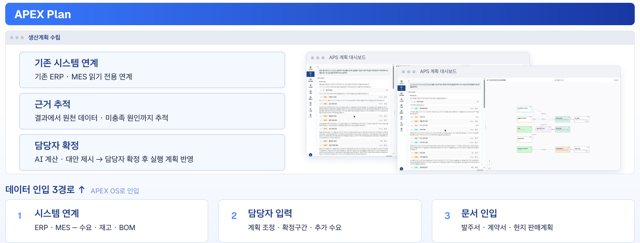
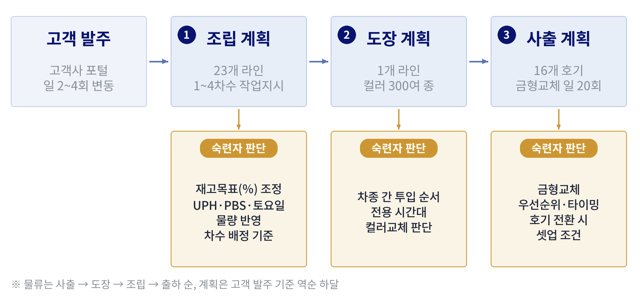
Site update

diff --git a/tools/en_content.py b/tools/en_content.py
@@ -60,6 +60,21 @@ CAPTION = {
     "투입 → 컨베이어 → AI 검사 구성": "Infeed → conveyor → AI inspection layout",
     "후공정 검사 카메라 마운트": "Camera mount for post-process inspection",
     "휴대용 레이저 각인기": "Portable laser engraver",
+    "Ontology · LLM Agent · MES Integration": "Ontology · LLM Agent · MES Integration",
+    "Energy Monitoring · KEPCO OpenAPI · Demand Forecast": "Energy Monitoring · KEPCO OpenAPI · Demand Forecast",
+    "자동차 커넥터·전장부품 제조사": "Automotive connector and electrical parts maker",
+    "구축 착수": "Build started",
+    "금형 타발 알림(화면 예시)": "Mold shot-count alerts (sample screen)",
+    "팀별 KPI 대시보드(화면 예시)": "Team KPI dashboard (sample screen)",
+    "근거를 보여주는 AI 질의응답(화면 예시)": "AI Q&A with traceable evidence (sample screen)",
+    "실시간 가동·비가동 모니터링(화면 예시)": "Live run/idle monitoring (sample screen)",
+    "이론재고를 계산하는 노드 그래프": "Theoretical-inventory logic as a node graph",
+    "숙련자 판단을 쌓는 APEX OS 구성": "How APEX OS builds up expert judgment",
+    "발주에서 사출까지, 공정별 숙련자 판단": "Where expert judgment shapes each stage of the plan",
+    "설비 심볼 8종": "Eight equipment symbols",
+    "한전 사용량·요금 화면": "KEPCO usage and tariff view",
+    "유효·비효율 사용량 리포트": "Effective vs. wasted usage report",
+    "도면 위 설비별 에너지 모니터링": "Energy per machine on the floor plan",
     "라인에 설치한 포장 수량 검사장치": "Pack count inspection unit installed on the line",
     "포장 내 스프링 수량 AI 집계 화면": "AI count of springs in a pack",
     "APEX Plan 생산계획 수립 구조": "APEX Plan production planning structure",
@@ -111,15 +126,35 @@ Reading work orders, demand, capacity and inventory together, it totals volume b
 """),
     "apex-m-assembly-planning": (
         "Company S (Sequence-driven assembly planning automation)",
-        "Moves assembly planning that ran on Excel workbooks and messenger chats onto the ontology, linking sequence intake to work orders in one flow",
+        "Moves assembly planning that one planner ran in Excel onto the ontology and builds up expert decisions as history for recommendations",
         """
-Company S's assembly planning runs on one planner's Excel workbook. Every morning the planner downloads delivery sequences by plant from the automaker's portal, copies defect reports received by messenger into the sheet by hand, calculates theoretical inventory, finds the specs that will run short, and prints work orders. Scaling quantities by a single ratio, assigning shifts, splitting into cart-sized lots and preparing the SAP sequence-production upload are all stitched together by hand.
+Company S makes automotive mirrors through injection molding, painting and assembly. The automaker's plan changes two to four times a day, and one planner spent three to four hours building each assembly plan in an Excel workbook. Decisions such as how to split work into shifts relied on experienced staff, model by model.
 
-JISHIN is unpacking the workbook's formulas and labels one by one, confirming what they mean in interviews with the planner, and moving those rules into APEX OS ontology objects and constraints. Six MES views (production results, run history, line status, two inventory views and issue history) are connected so theoretical inventory reconciles automatically; the first scope runs up to entering D+3 production quantities and comparing the result with the existing plan. A simulator screen the planner can run directly is being built alongside.
+### Workshop and kickoff
+A three-day on-site workshop in August 2026 produced 28 requirements, and assembly planning automation was chosen as the first project. After the September kickoff, interviews with the planner broke the job into seven data-preparation steps and five planning steps.
+
+### What we are building
+Theoretical inventory is confirmed from customer sequences (previous stock + previous plan − actuals − unproduced), short specs are flagged, and the system generates shift-by-shift work orders and the SAP upload file. MES, SAP, paint-shop SCADA, customer sequences and Excel planning files are tied together in the APEX OS ontology, and the decisions experts make — with their reasons — are kept as history to inform the next plan. The planner sees the evidence for each step beside the result, compares it with their own estimate, and then confirms.
 
 ### Progress
-- Three on-site interviews in September 2026 and a confirmed rule sheet for the workbook
-- Planning for painting and injection lines to follow the assembly line
+Checked against the existing workbook, theoretical inventory matched 52 of 52, remaining and shortage 312 of 312, and same-day plan decisions 416 of 416. After a first demo, it will run in Shadow Mode alongside the current method before going into production.
+"""),
+    "apex-k-mes-agent": (
+        "Company K (MES-connected AI Q&A and run/idle monitoring)",
+        "Cleans MES data into an ontology and builds run/idle monitoring, AI Q&A that shows its evidence, and automated reporting",
+        """
+Company K runs stamping, injection, plating and assembly. Each team downloaded MES data into Excel to build PowerPoint reports, taking around three hours per regular report. Utilization was only totaled per day, so day and night shifts couldn't be separated, and planned stops mixed with real downtime made utilization look lower than it was. There was no alert when a mold's shot count passed its limit.
+
+### What we are building
+Plant MES data is moved into a cleaned database for AI and tied into the APEX OS ontology, so screens, reports and Q&A all read the same data. It is installed on premises.
+
+- Live run/idle, labor-hour and materials/warehouse monitoring
+- AI Q&A that answers with the evidence: which data was queried and how
+- Team KPI dashboards and automatic weekly and monthly reports
+- Mold shot-count alerts and draft repair requests
+
+### Progress
+After a pilot kickoff in August 2026 and a contract in October, the build covers three plants through February 2027.
 """),
     "si-drying-temp-ai": (
         "Company S (AI temperature recommendation and anomaly alerts for a molded pulp drying line)",
@@ -177,11 +212,18 @@ We are building an integrated monitoring system that cross-checks against work o
 """),
     "si-fems": (
         "Company E (Real-time factory energy management (FEMS) linked to KEPCO tariffs)",
-        "See live power and wasted usage per machine on the floor plan, with KEPCO costs and carbon intensity on one screen",
+        "Energy per machine on the floor plan, KEPCO tariff data and demand forecasting in one system",
         """
-We built a factory energy management system (FEMS) together with an MES for a plant that makes powder and coating materials. The customer handled the data collection hardware and database; JISHIN built the screens, back end and AI.
+We built a factory energy management system (FEMS) together with an MES for a plant with powder (bead mill) and coating (plasma) processes. The customer handled the data collection hardware and database; JISHIN built the screens, back end and AI.
 
-On the equipment layout, operators see live power (kW) per machine and check effective versus wasted usage by hour along with alarm logs. Through the KEPCO PowerPlanner API, monthly converted cost and usage are compared with the previous month and the same month last year. Carbon emission intensity and reports by machine and for the whole plant are included.
+### Energy per machine on the floor plan
+Upload the plant drawing, drag machines onto it, and each one shows live power (kW) and effective versus wasted usage right where it sits. Positions are stored relative to the drawing, so they stay put at any screen size. Seven screens cover machine monitoring, alarm logs (monthly top 3 and statistics), per-machine and plant-wide reports, KEPCO usage, carbon intensity and energy demand forecasting.
+
+### KEPCO data integration
+We connected contract, monthly billing and 15-minute metering data from the KEPCO PowerPlanner OpenAPI. The server collects 15-minute readings automatically and uses them for live usage, expected cost and carbon intensity. On the forecasting screen, users can change contract power and unit price to see how the bill would change.
+
+### Progress
+All six findings from the August 2026 review were resolved and reported complete, and the system is running on site.
 """),
     "si-curved-spring": (
         "Company D (Curvature-aware photometric AI vision with automatic rejection)",

diff --git a/tools/make_teasers.py b/tools/make_teasers.py
@@ -14,7 +14,7 @@ PICK = {
     "si-curved-spring": (1, "fit"),
     "si-cutting-tool-ai": (1, "photo"),
     "si-drying-temp-ai": (4, "fit"),
-    "si-fems": (2, "fit"),
+    "si-fems": (1, "fit"),
     "si-grind-inspection-darkroom": (1, "photo"),
     "si-grinder-ai": (2, "photo"),
     "si-load-control": (1, "fit"),
@@ -25,7 +25,8 @@ PICK = {
     "si-spring-inspection": (1, "photo"),
     "si-stpm": (1, "fit"),
     "si-spring-packaging": (1, "photo"),
-    "apex-m-assembly-planning": (1, "fit"),
+    "apex-m-assembly-planning": (2, "fit"),
+    "apex-k-mes-agent": (1, "fit"),
 }
 
 

diff --git a/_portfolio/apex-m-assembly-planning.md b/_portfolio/apex-m-assembly-planning.md
@@ -5,7 +5,7 @@ types: ["Ontology"]
 solution: onto
 kind: apex-os
 order: 2
-excerpt: "엑셀 워크북과 메신저로 돌던 조립 생산계획을 온톨로지 위로 옮겨 서열 수집부터 작업지시까지 한 흐름으로 잇습니다"
+excerpt: "담당자 한 사람의 엑셀로 짜던 조립 생산계획을 온톨로지로 옮기고, 숙련자 판단을 이력으로 쌓아 추천에 씁니다"
 sidebar:
   - title: "고객"
     text: "자동차 미러 부품 제조사"
@@ -20,16 +20,27 @@ header:
 gallery:
   - url: /assets/images/portfolio/apex-m-assembly-planning/01.jpg
     image_path: /assets/images/portfolio/apex-m-assembly-planning/01-th.jpg
-    alt: "APEX Plan 생산계획 수립 구조"
-    title: "APEX Plan 생산계획 수립 구조"
+    alt: "발주에서 사출까지, 공정별 숙련자 판단"
+    title: "발주에서 사출까지, 공정별 숙련자 판단"
+  - url: /assets/images/portfolio/apex-m-assembly-planning/02.jpg
+    image_path: /assets/images/portfolio/apex-m-assembly-planning/02-th.jpg
+    alt: "숙련자 판단을 쌓는 APEX OS 구성"
+    title: "숙련자 판단을 쌓는 APEX OS 구성"
+  - url: /assets/images/portfolio/apex-m-assembly-planning/03.jpg
+    image_path: /assets/images/portfolio/apex-m-assembly-planning/03-th.jpg
+    alt: "이론재고를 계산하는 노드 그래프"
+    title: "이론재고를 계산하는 노드 그래프"
 ---
 
-S사의 조립 생산계획은 담당자 한 사람의 엑셀 워크북으로 돌아갑니다. 매일 아침 완성차 고객사 포털에서 서열을 공장별로 내려받고 메신저로 통보된 불량을 손으로 옮겨 적은 뒤, 이론재고를 계산하고 부족한 사양을 찾아 작업지시서를 뽑습니다. 사양별 수량을 비율 하나로 끌어올리는 일부터 차수 배정, 대차 단위 분할, SAP 순서생산 업로드까지 사람이 직접 이어 붙입니다.
+S사는 사출·도장·조립을 거쳐 자동차 미러를 만듭니다. 완성차 고객사의 계획이 하루 2~4번 바뀌는데, 조립 생산계획은 담당자 한 사람이 엑셀 워크북으로 3~4시간씩 짜 왔습니다. 차수를 어떻게 나눌지 같은 판단은 차종마다 숙련자의 경험에 기대고 있었습니다.
 
-지신은 이 워크북의 수식과 라벨을 하나씩 풀어 담당자 인터뷰로 의미를 확정하고, 그 규칙을 APEX OS 온톨로지의 객체와 제약으로 옮기고 있습니다. MES 뷰 6종(생산실적·가동 이력·라인 상태·재고 2종·출고 이력)을 연결해 이론재고를 자동으로 맞춥니다. 1차 범위는 D+3 양산 수량을 입력해 결과를 기존 계획과 비교하는 데까지입니다. 계획 담당자가 직접 돌려 볼 수 있는 시뮬레이터 화면도 함께 만들고 있습니다.
+### 워크숍과 착수
+2026년 8월 3일간 현장 워크숍에서 요구사항 28건을 도출했고, 그중 조립 생산계획 자동화를 첫 과제로 정했습니다. 9월 킥오프 뒤 계획 담당자 인터뷰로 업무를 자료 준비 7단계와 계획 작성 5단계로 정리했습니다.
+
+### 만드는 것
+고객 서열을 기준으로 이론재고를 확정하고(전일재고 + 전일계획 − 실적 − 미생산), 부족 사양을 판정해 차수별 작업지시와 SAP 업로드 파일까지 만듭니다. MES·SAP·도장 SCADA·고객 서열·엑셀 계획 파일을 APEX OS 온톨로지로 묶고, 숙련자가 내린 판단과 그 이유를 이력으로 쌓아 다음 계획 추천에 씁니다. 계획 담당자는 결과 옆에서 단계별 근거를 보고 자기 예상치와 나란히 비교한 뒤 확정합니다.
 
 ### 진행
-- 2026년 9월 온사이트 인터뷰 3회, 워크북 규칙 확인표 작성
-- 조립 라인 다음으로 도장·사출 라인 계획까지 넓힐 예정
+기존 워크북 결과와 대조해 보니 이론재고 52/52건, 잔여·부족 312/312건, 당일계획 판정 416/416건이 일치했습니다. 1차 데모를 거쳐 기존 방식과 병행하는 Shadow Mode로 검증한 뒤 양산에 적용할 예정입니다.
 
 {% include gallery %}

diff --git a/_portfolio_en/apex-m-assembly-planning.md b/_portfolio_en/apex-m-assembly-planning.md
@@ -5,7 +5,7 @@ types: ["Ontology"]
 solution: onto
 kind: apex-os
 order: 2
-excerpt: "Moves assembly planning that ran on Excel workbooks and messenger chats onto the ontology, linking sequence intake to work orders in one flow"
+excerpt: "Moves assembly planning that one planner ran in Excel onto the ontology and builds up expert decisions as history for recommendations"
 sidebar:
   - title: "Client"
     text: "Automotive mirror parts maker"
@@ -20,16 +20,27 @@ header:
 gallery:
   - url: /assets/images/portfolio/apex-m-assembly-planning/01.jpg
     image_path: /assets/images/portfolio/apex-m-assembly-planning/01-th.jpg
-    alt: "APEX Plan production planning structure"
-    title: "APEX Plan production planning structure"
+    alt: "Where expert judgment shapes each stage of the plan"
+    title: "Where expert judgment shapes each stage of the plan"
+  - url: /assets/images/portfolio/apex-m-assembly-planning/02.jpg
+    image_path: /assets/images/portfolio/apex-m-assembly-planning/02-th.jpg
+    alt: "How APEX OS builds up expert judgment"
+    title: "How APEX OS builds up expert judgment"
+  - url: /assets/images/portfolio/apex-m-assembly-planning/03.jpg
+    image_path: /assets/images/portfolio/apex-m-assembly-planning/03-th.jpg
+    alt: "Theoretical-inventory logic as a node graph"
+    title: "Theoretical-inventory logic as a node graph"
 ---
 
-Company S's assembly planning runs on one planner's Excel workbook. Every morning the planner downloads delivery sequences by plant from the automaker's portal, copies defect reports received by messenger into the sheet by hand, calculates theoretical inventory, finds the specs that will run short, and prints work orders. Scaling quantities by a single ratio, assigning shifts, splitting into cart-sized lots and preparing the SAP sequence-production upload are all stitched together by hand.
+Company S makes automotive mirrors through injection molding, painting and assembly. The automaker's plan changes two to four times a day, and one planner spent three to four hours building each assembly plan in an Excel workbook. Decisions such as how to split work into shifts relied on experienced staff, model by model.
 
-JISHIN is unpacking the workbook's formulas and labels one by one, confirming what they mean in interviews with the planner, and moving those rules into APEX OS ontology objects and constraints. Six MES views (production results, run history, line status, two inventory views and issue history) are connected so theoretical inventory reconciles automatically; the first scope runs up to entering D+3 production quantities and comparing the result with the existing plan. A simulator screen the planner can run directly is being built alongside.
+### Workshop and kickoff
+A three-day on-site workshop in August 2026 produced 28 requirements, and assembly planning automation was chosen as the first project. After the September kickoff, interviews with the planner broke the job into seven data-preparation steps and five planning steps.
+
+### What we are building
+Theoretical inventory is confirmed from customer sequences (previous stock + previous plan − actuals − unproduced), short specs are flagged, and the system generates shift-by-shift work orders and the SAP upload file. MES, SAP, paint-shop SCADA, customer sequences and Excel planning files are tied together in the APEX OS ontology, and the decisions experts make — with their reasons — are kept as history to inform the next plan. The planner sees the evidence for each step beside the result, compares it with their own estimate, and then confirms.
 
 ### Progress
-- Three on-site interviews in September 2026 and a confirmed rule sheet for the workbook
-- Planning for painting and injection lines to follow the assembly line
+Checked against the existing workbook, theoretical inventory matched 52 of 52, remaining and shortage 312 of 312, and same-day plan decisions 416 of 416. After a first demo, it will run in Shadow Mode alongside the current method before going into production.
 
 {% include gallery %}

diff --git a/_portfolio_en/si-fems.md b/_portfolio_en/si-fems.md
@@ -5,12 +5,12 @@ types: ["Software"]
 solution: sw
 kind: si
 order: 4
-excerpt: "See live power and wasted usage per machine on the floor plan, with KEPCO costs and carbon intensity on one screen"
+excerpt: "Energy per machine on the floor plan, KEPCO tariff data and demand forecasting in one system"
 sidebar:
   - title: "Client"
     text: "Powder & coating materials maker"
   - title: "Techniques"
-    text: "Energy Monitoring · KEPCO API"
+    text: "Energy Monitoring · KEPCO OpenAPI · Demand Forecast"
   - title: "Program"
     text: "Legend 50+ Regional Smart Factory Program"
   - title: "Period"
@@ -22,16 +22,31 @@ header:
 gallery:
   - url: /assets/images/portfolio/si-fems/01.jpg
     image_path: /assets/images/portfolio/si-fems/01-th.jpg
-    alt: "Energy management screen"
-    title: "Energy management screen"
+    alt: "Energy per machine on the floor plan"
+    title: "Energy per machine on the floor plan"
   - url: /assets/images/portfolio/si-fems/02.jpg
     image_path: /assets/images/portfolio/si-fems/02-th.jpg
-    alt: "Usage and cost overview"
-    title: "Usage and cost overview"
+    alt: "Effective vs. wasted usage report"
+    title: "Effective vs. wasted usage report"
+  - url: /assets/images/portfolio/si-fems/03.jpg
+    image_path: /assets/images/portfolio/si-fems/03-th.jpg
+    alt: "KEPCO usage and tariff view"
+    title: "KEPCO usage and tariff view"
+  - url: /assets/images/portfolio/si-fems/04.jpg
+    image_path: /assets/images/portfolio/si-fems/04-th.jpg
+    alt: "Eight equipment symbols"
+    title: "Eight equipment symbols"
 ---
 
-We built a factory energy management system (FEMS) together with an MES for a plant that makes powder and coating materials. The customer handled the data collection hardware and database; JISHIN built the screens, back end and AI.
+We built a factory energy management system (FEMS) together with an MES for a plant with powder (bead mill) and coating (plasma) processes. The customer handled the data collection hardware and database; JISHIN built the screens, back end and AI.
 
-On the equipment layout, operators see live power (kW) per machine and check effective versus wasted usage by hour along with alarm logs. Through the KEPCO PowerPlanner API, monthly converted cost and usage are compared with the previous month and the same month last year. Carbon emission intensity and reports by machine and for the whole plant are included.
+### Energy per machine on the floor plan
+Upload the plant drawing, drag machines onto it, and each one shows live power (kW) and effective versus wasted usage right where it sits. Positions are stored relative to the drawing, so they stay put at any screen size. Seven screens cover machine monitoring, alarm logs (monthly top 3 and statistics), per-machine and plant-wide reports, KEPCO usage, carbon intensity and energy demand forecasting.
+
+### KEPCO data integration
+We connected contract, monthly billing and 15-minute metering data from the KEPCO PowerPlanner OpenAPI. The server collects 15-minute readings automatically and uses them for live usage, expected cost and carbon intensity. On the forecasting screen, users can change contract power and unit price to see how the bill would change.
+
+### Progress
+All six findings from the August 2026 review were resolved and reported complete, and the system is running on site.
 
 {% include gallery %}

diff --git a/_portfolio/si-fems.md b/_portfolio/si-fems.md
@@ -10,7 +10,7 @@ sidebar:
   - title: "고객"
     text: "분말·코팅 소재 제조사"
   - title: "기술"
-    text: "Energy Monitoring · KEPCO API"
+    text: "Energy Monitoring · KEPCO OpenAPI · Demand Forecast"
   - title: "사업"
     text: "레전드50+ 지역특화 스마트공장 구축사업"
   - title: "기간"
@@ -22,16 +22,31 @@ header:
 gallery:
   - url: /assets/images/portfolio/si-fems/01.jpg
     image_path: /assets/images/portfolio/si-fems/01-th.jpg
-    alt: "에너지 관리 화면"
-    title: "에너지 관리 화면"
+    alt: "도면 위 설비별 에너지 모니터링"
+    title: "도면 위 설비별 에너지 모니터링"
   - url: /assets/images/portfolio/si-fems/02.jpg
     image_path: /assets/images/portfolio/si-fems/02-th.jpg
-    alt: "사용량·요금 현황"
-    title: "사용량·요금 현황"
+    alt: "유효·비효율 사용량 리포트"
+    title: "유효·비효율 사용량 리포트"
+  - url: /assets/images/portfolio/si-fems/03.jpg
+    image_path: /assets/images/portfolio/si-fems/03-th.jpg
+    alt: "한전 사용량·요금 화면"
+    title: "한전 사용량·요금 화면"
+  - url: /assets/images/portfolio/si-fems/04.jpg
+    image_path: /assets/images/portfolio/si-fems/04-th.jpg
+    alt: "설비 심볼 8종"
+    title: "설비 심볼 8종"
 ---
 
-분말·코팅 소재를 만드는 공장에 MES와 함께 에너지 관리 시스템(FEMS)을 구축했습니다. 데이터 수집 장비와 DB는 고객사가 맡고 화면과 백엔드, AI는 지신이 만들었습니다.
+분말 공정(비드밀)과 코팅 공정(플라즈마)을 가진 공장에 MES와 함께 에너지 관리 시스템(FEMS)을 구축했습니다. 데이터 수집 장비와 DB는 고객사가 맡고 화면과 백엔드, AI는 지신이 만들었습니다.
 
-설비 배치도 위에서 설비별 실시간 전력(kW)을 보고 시간대별 유효·비효율 사용량과 알람 로그를 확인합니다. 한전 파워플래너 API를 연동해 월별 환산 요금과 사용량을 전월·전년 동월과 비교합니다. 탄소배출 집약도와 설비별·전체 리포트도 제공합니다.
+### 도면 위에서 보는 설비별 에너지
+공장 도면을 배경으로 올리고 설비를 끌어다 놓으면 설비마다 실시간 전력(kW)과 유효·비효율 사용량이 그 자리에 표시됩니다. 좌표를 도면 대비 비율로 저장해 화면 크기가 달라도 위치가 어긋나지 않습니다. 설비 모니터링, 알람 로그(월별 Top3·발생 통계), 설비별·전체 리포트, 한전 사용량 보기, 탄소배출 집약도, 에너지 수요 예측까지 7개 화면으로 구성했습니다.
+
+### 한전 데이터 연동
+한전 파워플래너 OpenAPI의 계약자 정보·월별 청구·15분 계량 데이터를 연결했습니다. 15분 계량값은 서버가 자동으로 모아 실시간 사용량과 예상 요금, 탄소 집약도 계산에 씁니다. 수요 예측 화면에서는 계약전력과 단가를 바꿔 요금이 어떻게 달라지는지 미리 계산해 볼 수 있습니다.
+
+### 진행
+2026년 8월 점검에서 나온 지적사항 6건을 모두 조치해 완료 보고를 마쳤고 현장에서 운영하고 있습니다.
 
 {% include gallery %}

diff --git a/_portfolio/apex-k-mes-agent.md b/_portfolio/apex-k-mes-agent.md
@@ -1,0 +1,52 @@
+---
+title: "K사 (MES 데이터 연동 AI 질의응답·가동/비가동 모니터링)"
+status: ongoing
+types: ["Ontology", "LLM · Agent"]
+solution: onto
+kind: apex-os
+order: 3
+excerpt: "MES 데이터를 정제해 온톨로지로 묶고, 가동·비가동 모니터링과 근거를 보여주는 AI 질의응답, 리포트 자동화를 만듭니다"
+sidebar:
+  - title: "고객"
+    text: "자동차 커넥터·전장부품 제조사"
+  - title: "기술"
+    text: "Ontology · LLM Agent · MES Integration"
+  - title: "기간"
+    text: "2026.10 ~ 2027.02"
+  - title: "상태"
+    text: "구축 착수"
+header:
+  teaser: /assets/images/portfolio/apex-k-mes-agent/teaser.jpg
+gallery:
+  - url: /assets/images/portfolio/apex-k-mes-agent/01.jpg
+    image_path: /assets/images/portfolio/apex-k-mes-agent/01-th.jpg
+    alt: "실시간 가동·비가동 모니터링(화면 예시)"
+    title: "실시간 가동·비가동 모니터링(화면 예시)"
+  - url: /assets/images/portfolio/apex-k-mes-agent/02.jpg
+    image_path: /assets/images/portfolio/apex-k-mes-agent/02-th.jpg
+    alt: "근거를 보여주는 AI 질의응답(화면 예시)"
+    title: "근거를 보여주는 AI 질의응답(화면 예시)"
+  - url: /assets/images/portfolio/apex-k-mes-agent/03.jpg
+    image_path: /assets/images/portfolio/apex-k-mes-agent/03-th.jpg
+    alt: "팀별 KPI 대시보드(화면 예시)"
+    title: "팀별 KPI 대시보드(화면 예시)"
+  - url: /assets/images/portfolio/apex-k-mes-agent/04.jpg
+    image_path: /assets/images/portfolio/apex-k-mes-agent/04-th.jpg
+    alt: "금형 타발 알림(화면 예시)"
+    title: "금형 타발 알림(화면 예시)"
+---
+
+K사는 프레스·사출·도금·조립 공정을 운영합니다. 팀마다 MES 데이터를 엑셀로 내려받아 PPT 보고서를 만드는 데 정기 보고 한 건에 3시간 안팎이 들었습니다. 가동률은 하루 단위로만 집계돼 주간·야간을 나눠 볼 수 없었고 계획된 정지와 실제 비가동이 섞여 가동률이 실제보다 낮게 보였습니다. 금형 타발 수가 기준을 넘어도 알림이 없었습니다.
+
+### 만드는 것
+공장 MES 데이터를 AI 전용 정제 DB로 옮기고 APEX OS 온톨로지로 묶어 화면·리포트·질의응답이 모두 같은 데이터를 보게 합니다. 사내 구축형으로 설치합니다.
+
+- 실시간 가동·비가동, 노무공수, 자재·창고 모니터링
+- 질문하면 어떤 데이터를 어떻게 조회했는지 근거와 함께 답하는 AI 질의응답
+- 팀별 KPI 대시보드와 주간·월간 리포트 자동 생성
+- 금형 타발 도달 알림과 수리 의뢰 초안
+
+### 진행
+2026년 8월 파일럿 킥오프를 거쳐 10월 계약을 맺고, 2027년 2월까지 공장 3곳을 대상으로 구축합니다.
+
+{% include gallery %}

diff --git a/_portfolio_en/apex-k-mes-agent.md b/_portfolio_en/apex-k-mes-agent.md
@@ -1,0 +1,52 @@
+---
+title: "Company K (MES-connected AI Q&A and run/idle monitoring)"
+status: ongoing
+types: ["Ontology", "LLM · Agent"]
+solution: onto
+kind: apex-os
+order: 3
+excerpt: "Cleans MES data into an ontology and builds run/idle monitoring, AI Q&A that shows its evidence, and automated reporting"
+sidebar:
+  - title: "Client"
+    text: "Automotive connector and electrical parts maker"
+  - title: "Techniques"
+    text: "Ontology · LLM Agent · MES Integration"
+  - title: "Period"
+    text: "2026.10 ~ 2027.02"
+  - title: "Status"
+    text: "Build started"
+header:
+  teaser: /assets/images/portfolio/apex-k-mes-agent/teaser.jpg
+gallery:
+  - url: /assets/images/portfolio/apex-k-mes-agent/01.jpg
+    image_path: /assets/images/portfolio/apex-k-mes-agent/01-th.jpg
+    alt: "Live run/idle monitoring (sample screen)"
+    title: "Live run/idle monitoring (sample screen)"
+  - url: /assets/images/portfolio/apex-k-mes-agent/02.jpg
+    image_path: /assets/images/portfolio/apex-k-mes-agent/02-th.jpg
+    alt: "AI Q&A with traceable evidence (sample screen)"
+    title: "AI Q&A with traceable evidence (sample screen)"
+  - url: /assets/images/portfolio/apex-k-mes-agent/03.jpg
+    image_path: /assets/images/portfolio/apex-k-mes-agent/03-th.jpg
+    alt: "Team KPI dashboard (sample screen)"
+    title: "Team KPI dashboard (sample screen)"
+  - url: /assets/images/portfolio/apex-k-mes-agent/04.jpg
+    image_path: /assets/images/portfolio/apex-k-mes-agent/04-th.jpg
+    alt: "Mold shot-count alerts (sample screen)"
+    title: "Mold shot-count alerts (sample screen)"
+---
+
+Company K runs stamping, injection, plating and assembly. Each team downloaded MES data into Excel to build PowerPoint reports, taking around three hours per regular report. Utilization was only totaled per day, so day and night shifts couldn't be separated, and planned stops mixed with real downtime made utilization look lower than it was. There was no alert when a mold's shot count passed its limit.
+
+### What we are building
+Plant MES data is moved into a cleaned database for AI and tied into the APEX OS ontology, so screens, reports and Q&A all read the same data. It is installed on premises.
+
+- Live run/idle, labor-hour and materials/warehouse monitoring
+- AI Q&A that answers with the evidence: which data was queried and how
+- Team KPI dashboards and automatic weekly and monthly reports
+- Mold shot-count alerts and draft repair requests
+
+### Progress
+After a pilot kickoff in August 2026 and a contract in October, the build covers three plants through February 2027.
+
+{% include gallery %}
